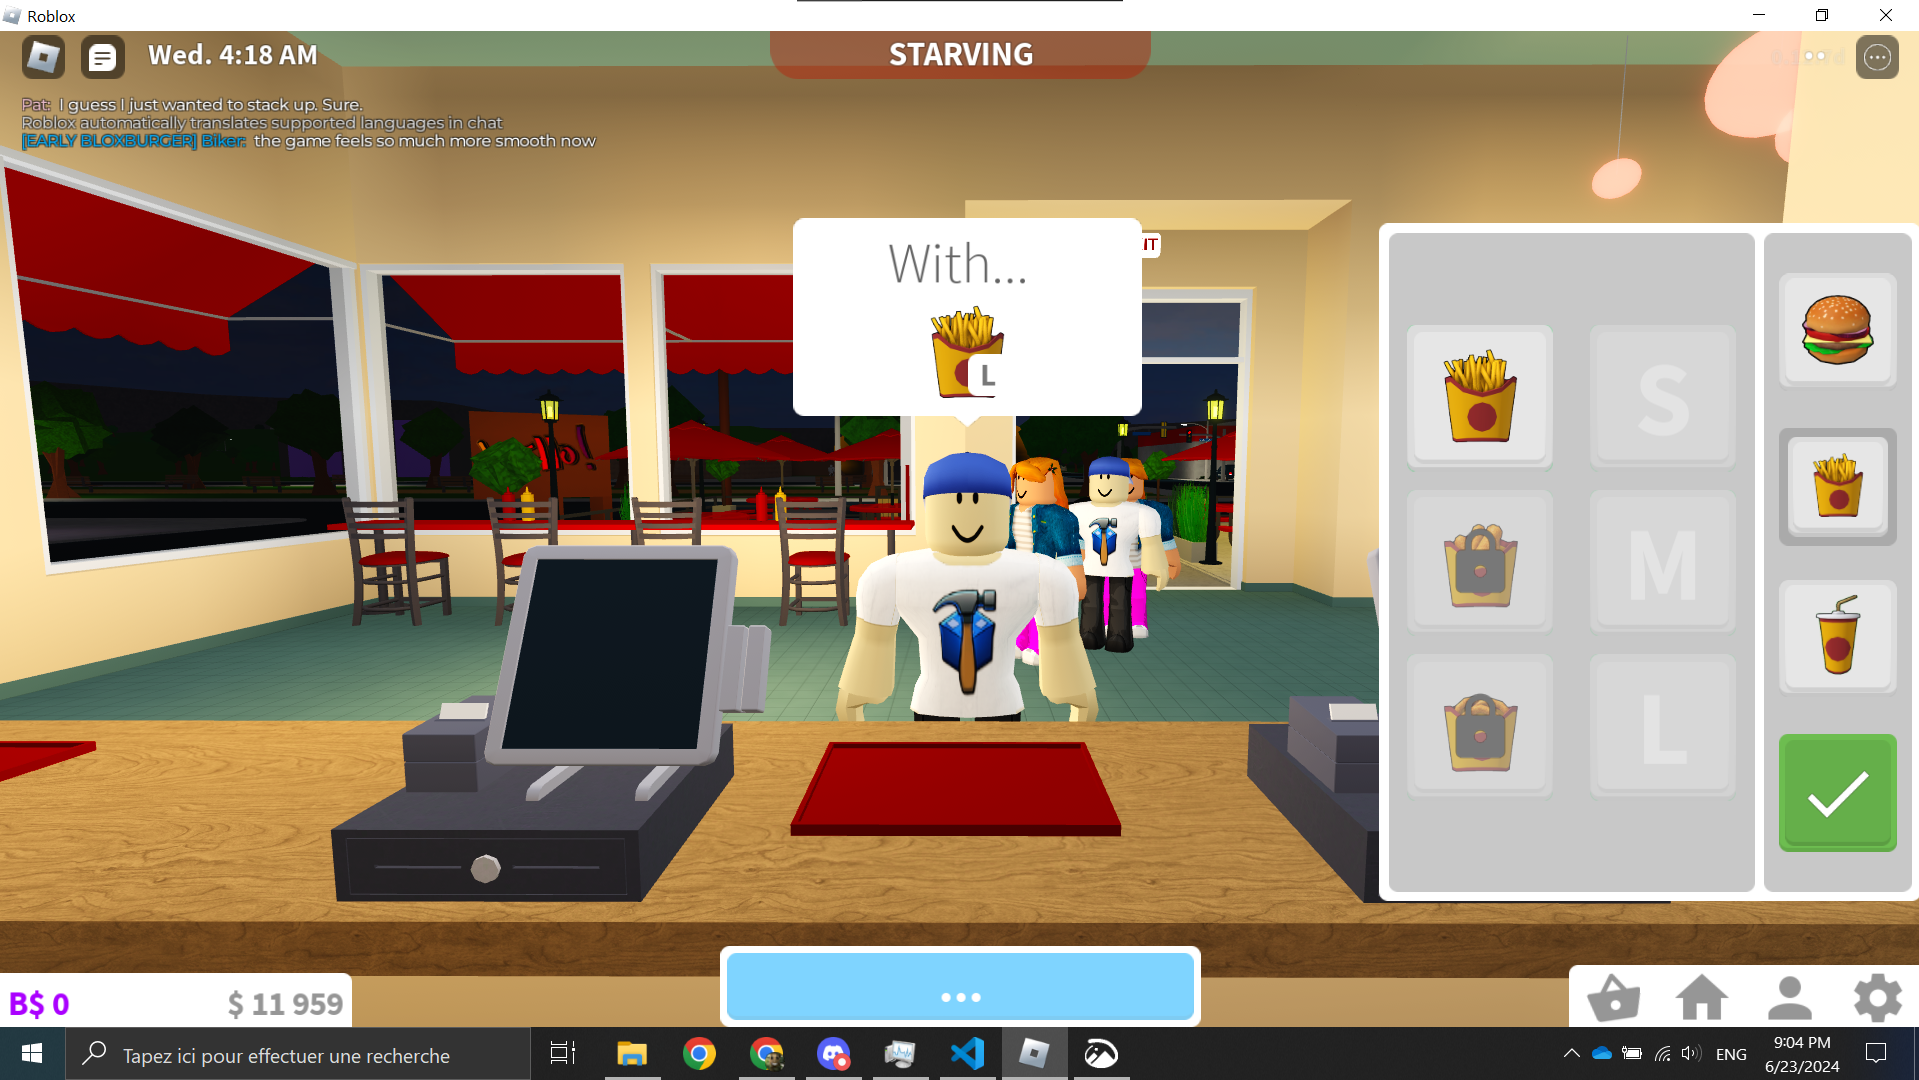
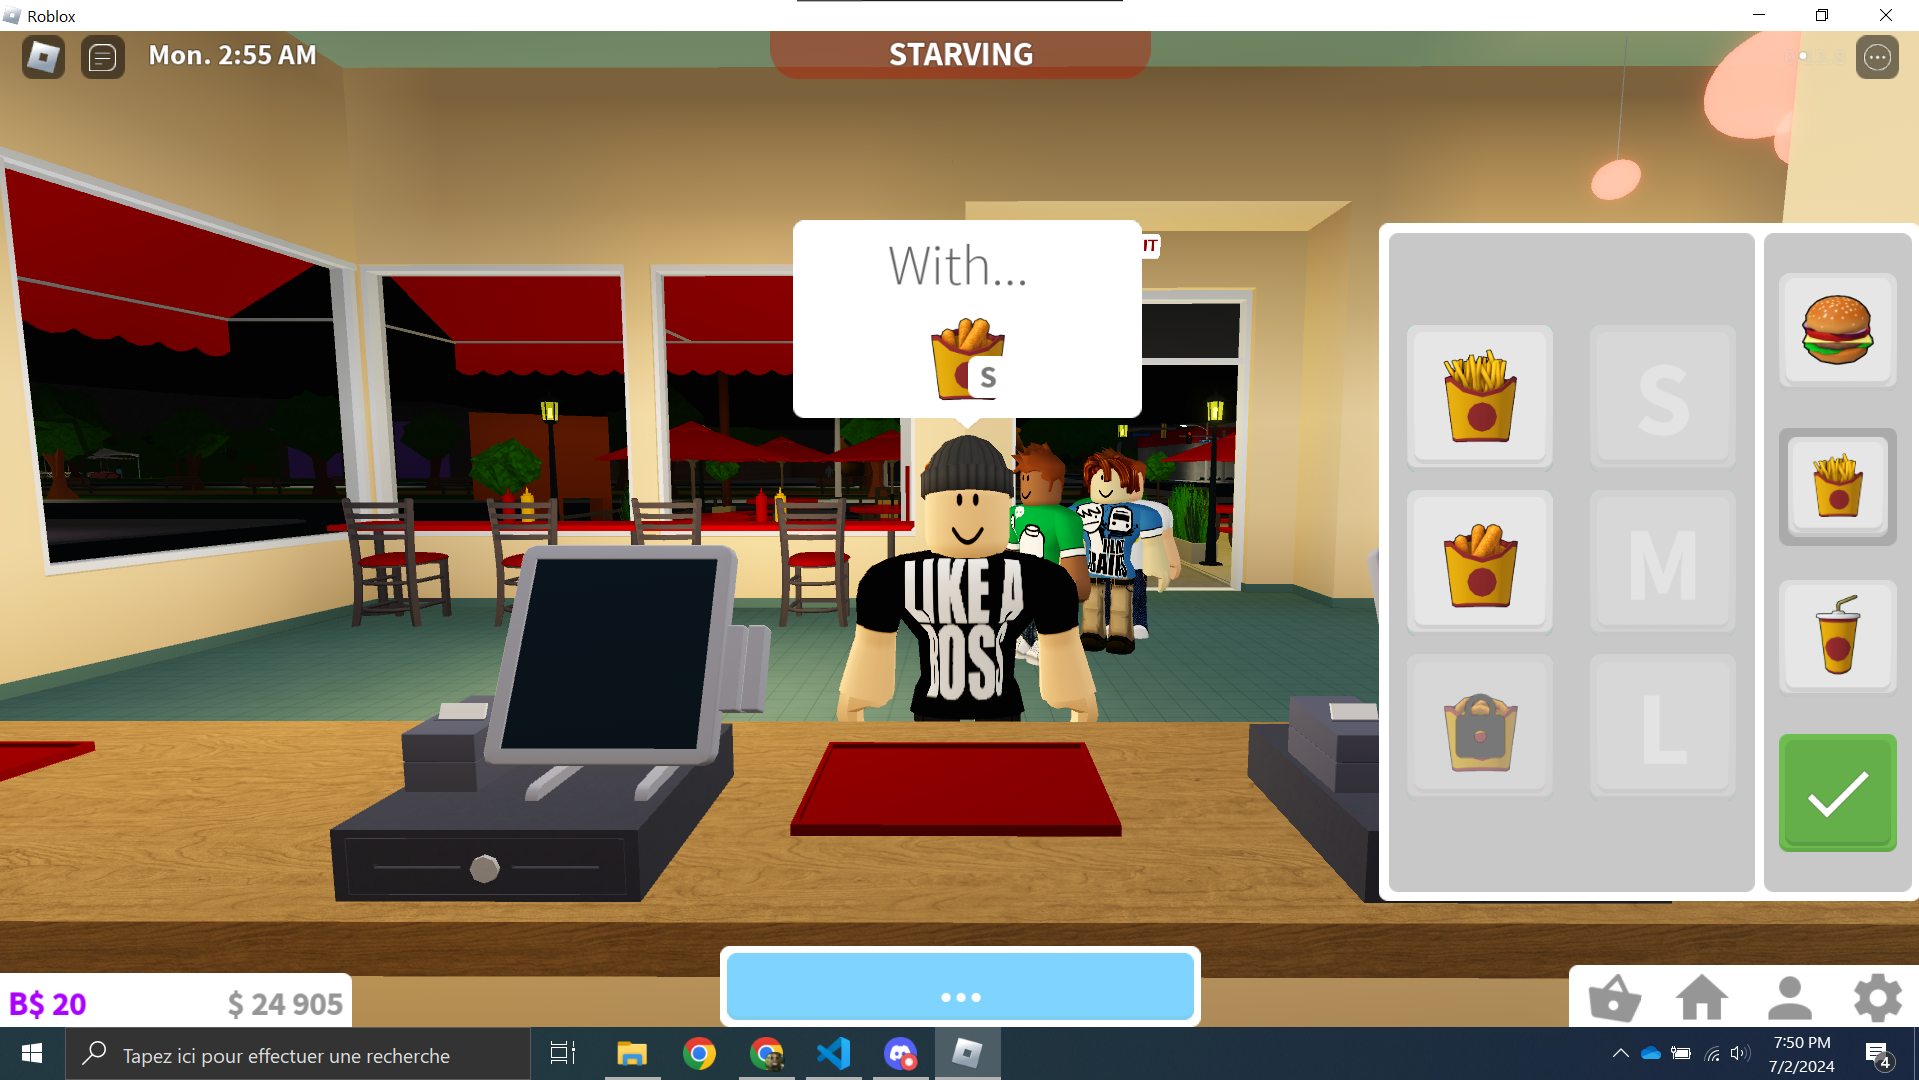
still trying to patch bug for detecting amount of items

diff --git a/project/main.py b/project/main.py
@@ -82,28 +82,27 @@ menuFinishButton = Item(r"project\img\menuItems\FinishButton.png", (0, 0, 255), 
 
 burgerBunTopItem = Item(r"project\img\menuItems\ingredients\burger\BurgerMenuBunTop.png", (0, 255, 0), "Bun menu top", ItemTypes.MENU_ITEM)
 burgerCheeseItem = Item(r"project\img\menuItems\ingredients\burger\CheeseMenu.png", (0, 255, 0), "Cheese menu", ItemTypes.MENU_ITEM)
-burgerPattyVeganItem = Item(r"project\img\menuItems\ingredients\burger\PattyVeganMenu.png", (0, 255, 0), "Vegan menu patty", ItemTypes.MENU_ITEM, detectionThreshold=0.3)
+burgerPattyVeganItem = Item(r"project\img\menuItems\ingredients\burger\PattyVeganMenu.png", (0, 255, 0), "Vegan menu patty", ItemTypes.MENU_ITEM, detectionThreshold=0.2)
 burgerPattyMeatItem = Item(r"project\img\menuItems\ingredients\burger\PattyMeatMenu.png", (0, 255, 0), "Meat menu patty", ItemTypes.MENU_ITEM)
 burgerTomatoeItem = Item(r"project\img\menuItems\ingredients\burger\TomatoeMenu.png", (0, 255, 0), "Tomatoe menu", ItemTypes.MENU_ITEM)
 burgerLettuceItem = Item(r"project\img\menuItems\ingredients\burger\LettuceMenu.png", (0, 255, 0), "Lettuce menu", ItemTypes.MENU_ITEM)
 burgerBunBottomItem = Item(r"project\img\menuItems\ingredients\burger\BurgerMenuBunBottom.png", (0, 255, 0), "Bun menu bottom", ItemTypes.MENU_ITEM)
 
 normalFriesItem = Item(r"project\img\menuItems\ingredients\fries\FryNormalMenu.png", (0, 255, 0), "Fry normal menu", ItemTypes.MENU_ITEM)
-mozzarellaSicksItem = Item(r"project\img\menuItems\ingredients\fries\MozzarellaSticksMenu.png", (0, 255, 0), "Mozzarella sticks menu", ItemTypes.MENU_ITEM)
+mozzarellaSicksItem = Item(r"project\img\menuItems\ingredients\fries\MozzarellaSticksMenu.png", (0, 255, 0), "Mozzarella sticks menu", ItemTypes.MENU_ITEM, detectionThreshold=0.62)
 
 normalDrinkItem = Item(r"project\img\menuItems\ingredients\drinks\DrinkNormalMenu.png", (0, 255, 0), "Drink normal menu", ItemTypes.MENU_ITEM)
 
 # Images for dialogue items
 # NOTE: ALL THE DIALOGUE ITEMS NAME MUST END WITH AN "order". EX.: "Cheese order" AND DO NOT ADD ANY ITEMTYPE TO THE SIZES
-cheeseDialogue = Item(r"project\img\dialogueItems\burger\CheeseDialogue.png", (255, 0, 0), "Cheese order", ItemTypes.DIALOGUE_ITEM, detectionThreshold=0.3)
+cheeseDialogue = Item(r"project\img\dialogueItems\burger\CheeseDialogue.png", (255, 0, 0), "Cheese order", ItemTypes.DIALOGUE_ITEM)
 pattyMeatDialogue = Item(r"project\img\dialogueItems\burger\PattyMeatDialogue.png", (0, 255, 0), "Patty meat order", ItemTypes.DIALOGUE_ITEM)
-pattyVeganDialogue = Item(r"project\img\dialogueItems\burger\PattyVeganDialogue.png", (0, 20, 0), "Patty vegan order", ItemTypes.DIALOGUE_ITEM)
 pattyVeganDialogue = Item(r"project\img\dialogueItems\burger\PattyVeganDialogue.png", (0, 20, 0), "Patty vegan order", ItemTypes.DIALOGUE_ITEM)
 tomatoeDialogue = Item(r"project\img\dialogueItems\burger\TomatoeDialogue.png", (0, 20, 0), "Tomatoe order", ItemTypes.DIALOGUE_ITEM)
 lettuceDialogue = Item(r"project\img\dialogueItems\burger\LettuceDialogue.png", (0, 255, 0), "Lettuce order", ItemTypes.DIALOGUE_ITEM)
  
-mozzarellaSticksOrder = Item(r"project\img\dialogueItems\fries\MozzarellaSticksDialogue.png", (0, 255, 0), "Normal fry order", ItemTypes.DIALOGUE_ITEM)
-normalFryOrder = Item(r"project\img\dialogueItems\fries\FryNormalDialogue.png", (0, 255, 0), "Normal fry order", ItemTypes.DIALOGUE_ITEM)
+mozzarellaSticksOrder = Item(r"project\img\dialogueItems\fries\MozzarellaSticksDialogue.png", (0, 255, 0), "Mozzarella sticks order", ItemTypes.DIALOGUE_ITEM)
+normalFryOrder = Item(r"project\img\dialogueItems\fries\FryNormalDialogue.png", (0, 255, 0), "Normal fry order", ItemTypes.DIALOGUE_ITEM, detectionThreshold=0.62)
 
 normalDrinkOrder = Item(r"project\img\dialogueItems\drinks\DrinkNormalDialogue.png", (0, 255, 0), "Normal drink order", ItemTypes.DIALOGUE_ITEM)
 
@@ -118,7 +117,7 @@ largeSizeMenu = Item(r"project\img\sizes\menu\Large.png", (0, 255, 0), "Lage siz
 
 smallSizeDialogue = Item(r"project\img\sizes\dialogue\Small.png", (0, 255, 0), "Small size dialogue", ItemTypes.DIALOGUE_ITEM)
 mediumSizeDialogue = Item(r"project\img\sizes\dialogue\Medium.png", (0, 255, 0), "Medium size dialogue", ItemTypes.DIALOGUE_ITEM)
-largeSizeDialogue = Item(r"project\img\sizes\dialogue\Large.png", (0, 255, 0), "Large size dialogue", ItemTypes.DIALOGUE_ITEM, detectionThreshold=0.75)
+largeSizeDialogue = Item(r"project\img\sizes\dialogue\Large.png", (0, 255, 0), "Large size dialogue", ItemTypes.DIALOGUE_ITEM, detectionThreshold=0.8)
 
 # Lists containing all the items for each region. Ex.: the dialogue is one region, so the patty and cheese order is in that list
 menuItems = [
@@ -174,7 +173,7 @@ def ClickOnItem(item : Item):
     positionY = item.positionOnScreen[1]
     print(item.itemName,item.requestedAmount)
     for i in range(item.requestedAmount):
-        autoit.mouse_click("left", positionX, positionY, 1, 2)
+        autoit.mouse_click("left", positionX, positionY, 1, -1)
         time.sleep(0.3)
 
 def ClickOnItemSize():
@@ -192,30 +191,28 @@ def ClickOnItemSize():
         print("LARGE SIZE DETECTED")
         detectedOrderedItems.remove(largeSizeDialogue)
 
-def GetAmountOfItems(region, item):
+lol = 0
+def GetAmountOfItems(region, items):    
+    global lol
+
     regionAdaptiveThresh = cv.adaptiveThreshold(region, 255, cv.ADAPTIVE_THRESH_GAUSSIAN_C, cv.THRESH_BINARY, 11, 2)
-
-    for amount in itemAmounts:
-        template = cv.imread(amount.image, cv.IMREAD_GRAYSCALE)
+    for item in itemAmounts:
+        template = cv.imread(item.image, cv.IMREAD_GRAYSCALE)        
         template = cv.adaptiveThreshold(template, 255, cv.ADAPTIVE_THRESH_GAUSSIAN_C, cv.THRESH_BINARY, 11, 2)
-
+        
         resolution = cv.matchTemplate(regionAdaptiveThresh, template, cv.TM_CCOEFF_NORMED)
-        locate = np.where(resolution >= 0.6)
+        threshold = item.detectionThreshold
+        locate = np.where(resolution >= threshold)
         points = list(zip(*locate[::-1]))
 
-        filteredPoints = []
-        for point in points:
-            if all(np.linalg.norm(np.array(point) - np.array(p)) >= 10 for p in filteredPoints):
-                filteredPoints.append(point)
-
-    if amount.itemName == oneItemOrder.itemName:
-        print(item.itemName, "1")
-        return 1
-    elif amount.itemName == twoItemOrder.itemName:
-        print(item.itemName, "2")
-        return 2
-
-    return 0
+        if points:
+            if item.itemName == oneItemOrder.itemName:
+                oneItemDetected = True
+                filename = f"{item.itemName}{lol}.png"
+                cv.imwrite(filename, region)
+                lol += 1
+            elif item.itemName == twoItemOrder.itemName:
+                twoItemDetected = True
 
 def GetGlobalItemCenterPosition(point, template, name, regionTopLeft):
     centerX = int(point[0] + template.shape[1] // 2 + regionTopLeft[0])
@@ -261,6 +258,10 @@ def DetectElementInRegion(regionRgb, regionGray, itemsList):
                                 burgerPattyMeatItem.requestedAmount = getAmountOfItems
                             case pattyVeganDialogue.itemName:
                                 burgerPattyVeganItem.requestedAmount = getAmountOfItems
+                            case tomatoeDialogue.itemName:
+                                burgerTomatoeItem.requestedAmount = getAmountOfItems
+                            case lettuceDialogue.itemName:
+                                burgerLettuceItem.requestedAmount = getAmountOfItems
                                             
                     case ItemTypes.MENU_ITEM:
                         if (item not in detectedMenuItems):
@@ -284,12 +285,6 @@ def ProcessOrder():
                 if any(item in detectedOrderedItems for item in [pattyMeatDialogue, pattyVeganDialogue, tomatoeDialogue, lettuceDialogue, cheeseDialogue]):
                     ClickOnItem(burgerBunBottomItem)
                     
-                    if (lettuceDialogue in detectedOrderedItems):
-                        ClickOnItem(burgerLettuceItem)
-                    
-                    if (tomatoeDialogue in detectedOrderedItems):
-                        ClickOnItem(burgerTomatoeItem)
-                    
                     if (pattyMeatDialogue in detectedOrderedItems):
                         ClickOnItem(burgerPattyMeatItem)
                     elif (pattyVeganDialogue in detectedOrderedItems):
@@ -298,16 +293,24 @@ def ProcessOrder():
                     if (cheeseDialogue in detectedOrderedItems):
                         ClickOnItem(burgerCheeseItem)
                     
+                    if (lettuceDialogue in detectedOrderedItems):
+                        ClickOnItem(burgerLettuceItem)
+                    
+                    if (tomatoeDialogue in detectedOrderedItems):
+                        ClickOnItem(burgerTomatoeItem)
+                    
+                    
                     ClickOnItem(burgerBunTopItem)
                     
                     ClickOnItem(friesMenuButton)
                     currentOrderState = OrderState.FRIES
             case OrderState.FRIES:
                 # Check if the fries order is in the detectedOrderedItems list, since theres still orders that we havent unlocked yet
-                if (normalFryOrder in detectedOrderedItems or mozzarellaSticksOrder in detectedOrderedItems):
+                if any(item in detectedOrderedItems for item in [mozzarellaSticksOrder, normalFryOrder]):
                     if (normalFryOrder in detectedOrderedItems):
                         ClickOnItem(normalFriesItem)
-                    elif (mozzarellaSicksItem in detectedOrderedItems):
+                    if (mozzarellaSticksOrder in detectedOrderedItems):
+                        print("Ms detected")
                         ClickOnItem(mozzarellaSicksItem)
 
                     ClickOnItemSize()
@@ -373,6 +376,3 @@ except Exception as e:
     print(f"An error occurred: {e}")
 
 
-'''for item in detectedOrderedItems:
-    print(item)'''
-    
